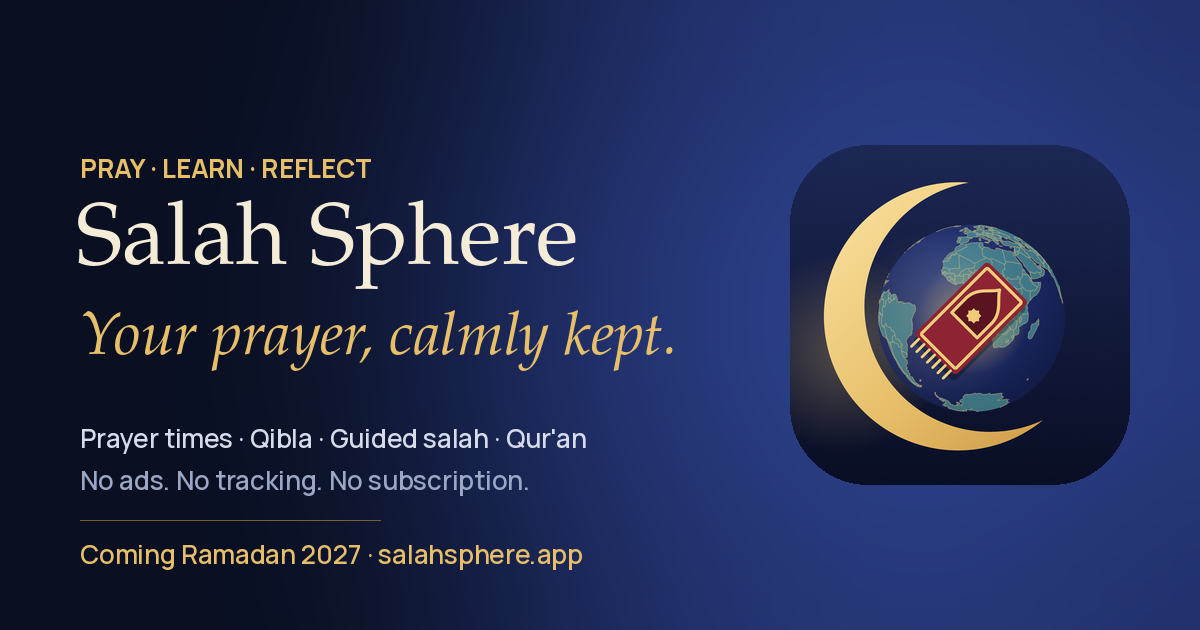
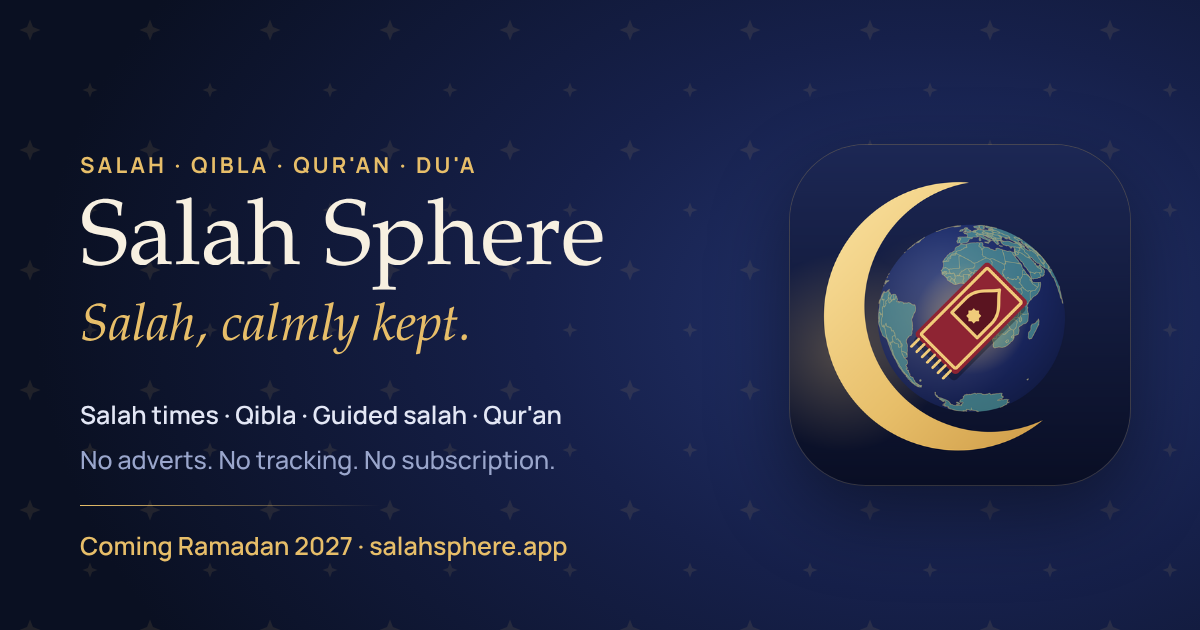
Home: the app as it is now (ss-df-push-2)
New screenshots from the Dreamflow preview: Salah Times, Guided Salah with the
new figures and gold chevrons (man and woman), Pray behind an imam, Learn Wudu,
the Du'as tab, the Guided tab in Midnight and Lantern, the theme picker. The
Qibla picture is today's screen with the preview-only 'Compass unavailable in
Preview' line shown as the app's own 'Turn right 119°' (a phone screenshot
should replace it after the phone test). The Qur'an reader (18 Nov) is kept.
Share image now carries the app's tagline, 'Salah, calmly kept.'
Home text: Pray behind an imam added; backup on the privacy card; guided salah
and adhkar lines reworded so they stay true whatever is decided about the
Qunut card and the adhkar counter; du'a lists and search.

Claude-Session: https://claude.ai/code/session_01FdMyGJUUJWv7DUDuUNQm9D

diff --git a/index.html b/index.html
@@ -66,10 +66,11 @@
      "url": "https://salahsphere.app/",
      "image": "https://salahsphere.app/assets/img/og.png",
      "screenshot": [
-      "https://salahsphere.app/assets/shots/prayer-times.webp",
-      "https://salahsphere.app/assets/shots/guided-prayer-man.webp",
-      "https://salahsphere.app/assets/shots/wudu.webp",
-      "https://salahsphere.app/assets/shots/qibla.webp"
+      "https://salahsphere.app/assets/shots/salah-times.webp",
+      "https://salahsphere.app/assets/shots/guided-salah-man.webp",
+      "https://salahsphere.app/assets/shots/behind-imam.webp",
+      "https://salahsphere.app/assets/shots/learn-wudu.webp",
+      "https://salahsphere.app/assets/shots/qibla-compass.webp"
      ],
      "publisher": {
       "@id": "https://salahsphere.app/#organization"
@@ -122,9 +123,9 @@
       <div class="phones reveal" aria-hidden="true">
         <div class="deco arch arch-khatam hero-arch"></div>
         <div class="halo"></div>
-        <div class="phone p-left"><img src="assets/shots/guided-prayer-woman.webp" alt="" width="390" height="844"></div>
-        <div class="phone p-mid"><img src="assets/shots/prayer-times.webp" alt="" width="399" height="864"></div>
-        <div class="phone p-right"><img src="assets/shots/guided-prayer-man.webp" alt="" width="390" height="844"></div>
+        <div class="phone p-left"><img src="assets/shots/guided-salah-woman.webp" alt="" width="390" height="844"></div>
+        <div class="phone p-mid"><img src="assets/shots/salah-times.webp" alt="" width="390" height="844"></div>
+        <div class="phone p-right"><img src="assets/shots/guided-salah-fatihah.webp" alt="" width="390" height="844"></div>
       </div>
     </div>
   </section>
@@ -182,7 +183,7 @@
       <article class="feature reveal">
         <figure class="feature-media">
           <div class="deco arch arch-khatam"></div>
-          <div class="phone"><img src="assets/shots/prayer-times.webp" alt="The salah times screen in the Midnight theme: Isha now, Fajr next, and today's five salahs" width="399" height="864" loading="lazy"></div>
+          <div class="phone"><img src="assets/shots/salah-times.webp" alt="The Salah Times screen in the Midnight theme: Maghrib now, Isha next, and today's five salahs in London" width="390" height="844" loading="lazy"></div>
           <figcaption class="pat-cap">Behind: <i>khatam</i>, the eight-point star of the Midnight theme</figcaption>
         </figure>
         <div>
@@ -201,7 +202,7 @@
       <article class="feature flip reveal">
         <figure class="feature-media">
           <div class="deco arch arch-ogee"></div>
-          <div class="phone"><img src="assets/shots/guided-prayer-man.webp" alt="A guided salah step in Fajr: the standing position and the opening supplication in transliteration" width="390" height="844" loading="lazy"></div>
+          <div class="phone"><img src="assets/shots/guided-salah-man.webp" alt="Guided Salah in Fajr: the figure raising both hands for the takbir, the last position faint beside it and gold arrows between them" width="390" height="844" loading="lazy"></div>
           <figcaption class="pat-cap">Behind: the pierced <i>ogee</i> of the Lantern theme</figcaption>
         </figure>
         <div>
@@ -211,9 +212,10 @@
           <ul class="ticks">
             <li>Fard, Sunnah and Witr, for brothers and sisters</li>
             <li>Every word in clear transliteration, phrase by phrase</li>
+            <li>Each step shows the position to take, and where you move from</li>
             <li>Memorise each part, with its meaning, before you begin</li>
             <li>Guided Taraweeh across Ramadan</li>
-            <li>Just press play. After that, nothing scrolls and nothing needs a tap</li>
+            <li>Just press play. After that, nothing needs a tap</li>
           </ul>
           <p class="guide-link"><a href="how-to-pray-salah.html">Read the step-by-step salah guide</a></p>
         </div>
@@ -221,8 +223,26 @@
 
       <article class="feature reveal">
         <figure class="feature-media">
+          <div class="deco arch arch-khatam"></div>
+          <div class="phone"><img src="assets/shots/behind-imam.webp" alt="Pray behind an imam in Fajr: the figure, and a cue for what to do when the imam says the takbir" width="390" height="844" loading="lazy"></div>
+          <figcaption class="pat-cap">Behind: <i>khatam</i>, the eight-point star of the Midnight theme</figcaption>
+        </figure>
+        <div>
+          <span class="eyebrow">Pray behind an imam</span>
+          <h3>Know what to do when you join the row.</h3>
+          <p>Practise praying behind an imam before you stand in the masjid. The app plays what an imam says aloud, each takbir and the recitation, and a short spoken cue tells you what to do: where your hands go, when to bow, what to read quietly. The quiet parts are never played; their words are on the screen.</p>
+          <ul class="ticks">
+            <li>The five fard salahs, Hanafi or Shafi'i, for brothers and sisters</li>
+            <li>The two fard rak'ahs of Fajr are free</li>
+            <li>Practice for home: the masjid and the jama'ah are still the place for it</li>
+          </ul>
+        </div>
+      </article>
+
+      <article class="feature reveal">
+        <figure class="feature-media">
           <div class="deco arch arch-jali"></div>
-          <div class="phone"><img src="assets/shots/wudu.webp" alt="Guided Wudu, ready to start hands-free guidance" width="399" height="864" loading="lazy"></div>
+          <div class="phone"><img src="assets/shots/learn-wudu.webp" alt="Learn Wudu: the steps of wudu, each with its own picture" width="390" height="844" loading="lazy"></div>
           <figcaption class="pat-cap">Behind: the Mughal <i>jali</i> of the Emerald theme</figcaption>
         </figure>
         <div>
@@ -259,7 +279,7 @@
       <article class="feature reveal">
         <figure class="feature-media">
           <div class="deco arch arch-mashrabiya"></div>
-          <div class="phone"><img src="assets/shots/qibla.webp" alt="The Qibla compass: 119 degrees from north, turn right" width="399" height="864" loading="lazy"></div>
+          <div class="phone"><img src="assets/shots/qibla-compass.webp" alt="The Qibla compass in London: 119 degrees from north, turn right" width="390" height="844" loading="lazy"></div>
           <figcaption class="pat-cap">Behind: the <i>mashrabiya</i> screen of the compass face</figcaption>
         </figure>
         <div>
@@ -272,13 +292,18 @@
       <article class="feature flip reveal">
         <figure class="feature-media">
           <div class="deco arch arch-zellige"></div>
-          <div class="phone"><img src="assets/shots/duas-morning-dark.webp" alt="Du'as in the morning, with the morning adhkar ready to start" width="390" height="844" loading="lazy"></div>
+          <div class="phone"><img src="assets/shots/duas-tab.webp" alt="The Du'as tab: search, the evening adhkar ready to start, your favourites and lists, and du'as by theme" width="390" height="844" loading="lazy"></div>
           <figcaption class="pat-cap">Behind: the Moroccan <i>zellige</i> of the Sandstone theme</figcaption>
         </figure>
         <div>
           <span class="eyebrow">Du'as &amp; adhkar</span>
           <h3>Remember Allah before the world reaches you.</h3>
-          <p>Du'as from the Qur'an and the Sunnah, each with its Arabic, a clear transliteration, its meaning and its source, and the morning and evening adhkar with a counter that keeps your place.</p>
+          <p>Du'as from the Qur'an and the Sunnah, each with its Arabic, a clear transliteration, its meaning and its source, and the morning and evening adhkar ready each day.</p>
+          <ul class="ticks">
+            <li>Search every du'a, or browse by theme</li>
+            <li>Your own lists, with one ready for Umrah and Hajj</li>
+            <li>The du'a of the day on the Salah Times screen</li>
+          </ul>
         </div>
       </article>
     </div>
@@ -331,9 +356,9 @@
         <li><div class="sw sw-minimal"></div><b>Minimal</b><span>Stars, and nothing more</span></li>
       </ul>
       <div class="gallery reveal">
-        <figure><div class="phone"><img src="assets/shots/theme-a.webp" alt="Guided Worship in the Midnight theme" width="399" height="864" loading="lazy"></div><figcaption>Midnight</figcaption></figure>
-        <figure class="lift"><div class="phone"><img src="assets/shots/theme-b.webp" alt="The theme picker, showing all six themes, with Iznik chosen" width="399" height="864" loading="lazy"></div><figcaption>Choose your theme</figcaption></figure>
-        <figure><div class="phone"><img src="assets/shots/theme-c.webp" alt="Guided Worship in the Lantern theme" width="399" height="864" loading="lazy"></div><figcaption>Lantern</figcaption></figure>
+        <figure><div class="phone"><img src="assets/shots/guided-tab-midnight.webp" alt="The Guided tab in the Midnight theme" width="390" height="844" loading="lazy"></div><figcaption>Midnight</figcaption></figure>
+        <figure class="lift"><div class="phone"><img src="assets/shots/theme-picker.webp" alt="The theme picker: six themes, Midnight chosen and the other five marked Premium" width="390" height="844" loading="lazy"></div><figcaption>Choose your theme</figcaption></figure>
+        <figure><div class="phone"><img src="assets/shots/guided-tab-lantern.webp" alt="The Guided tab in the Lantern theme" width="390" height="844" loading="lazy"></div><figcaption>Lantern</figcaption></figure>
       </div>
     </div>
   </section>
@@ -346,13 +371,13 @@
       <div class="section-head reveal">
         <span class="eyebrow">Private by design</span>
         <h2 id="privacy-title">Your worship stays<br>between you and Allah.</h2>
-        <p>Some apps know when and where you perform salah, and how often you miss. I decided I never want to know. There is no account and nothing to sign in to; what you do in Salah Sphere stays on your phone.</p>
+        <p>Some apps know when and where you perform salah, and how often you miss. I decided I never want to know. There is no account and nothing to sign in to; what you do in Salah Sphere stays on your phone, and in your own phone backup if you use one.</p>
       </div>
       <div class="promise-grid reveal">
         <div class="promise"><b>No account</b><span>Open the app and begin. Nothing to sign up for.</span></div>
         <div class="promise"><b>No adverts</b><span>Not now, not ever. Your salah is not a product.</span></div>
         <div class="promise"><b>No tracking</b><span>No analytics, and nothing sold or shared.</span></div>
-        <div class="promise"><b>On your phone</b><span>Your location is used on the device and never sent to me.</span></div>
+        <div class="promise"><b>On your phone</b><span>Your location is used on the device and never sent to me. Moving phone? Restore your settings from a backup.</span></div>
       </div>
       <p class="quote reveal">Your salah is between you and the One you turn to.<small><a href="privacy.html">Read the privacy policy</a></small></p>
     </div>

diff --git a/how-to-make-wudu.html b/how-to-make-wudu.html
@@ -156,7 +156,7 @@
     <p>Some details of wudu differ between the schools of fiqh. If you are unsure about anything, ask your local imam.</p>
 
     <aside class="app-cta">
-      <img src="assets/shots/wudu.webp" alt="Guided Wudu in Salah Sphere, ready to start hands-free guidance" width="399" height="864" loading="lazy">
+      <img src="assets/shots/learn-wudu.webp" alt="Learn Wudu in Salah Sphere: the steps of wudu, each with its own picture" width="390" height="844" loading="lazy">
       <div>
         <h2>Wudu, <span class="gold-text">read aloud.</span></h2>
         <p>Guided Wudu in Salah Sphere talks you through all ten steps in a calm voice, with gentle timing for each washing, so wet hands never need to touch the screen. Coming to Android and iPhone for Ramadan 2027.</p>

diff --git a/how-to-pray-salah.html b/how-to-pray-salah.html
@@ -192,7 +192,7 @@
     </ol>
 
     <aside class="app-cta">
-      <img src="assets/shots/guided-prayer-woman.webp" alt="A guided salah step in Salah Sphere, showing the position and the words in transliteration" width="399" height="864" loading="lazy">
+      <img src="assets/shots/guided-salah-woman.webp" alt="A Guided Salah step in Salah Sphere: the woman figure raising both hands for the takbir, with the words in transliteration" width="390" height="844" loading="lazy">
       <div>
         <h2>Not sure of the words? <span class="gold-text">Press play.</span></h2>
         <p>Guided salah in Salah Sphere walks you through every position and every word of Fard, Sunnah and Witr, at one steady pace, in the Hanafi or Shafi'i way. Coming to Android and iPhone for Ramadan 2027.</p>
